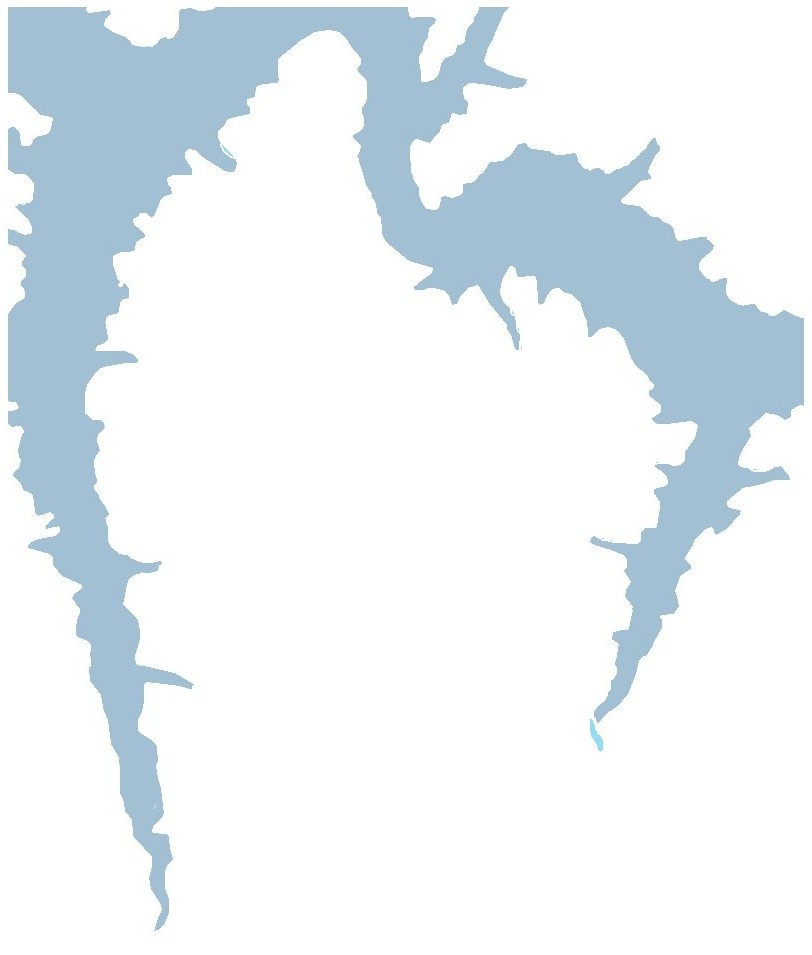
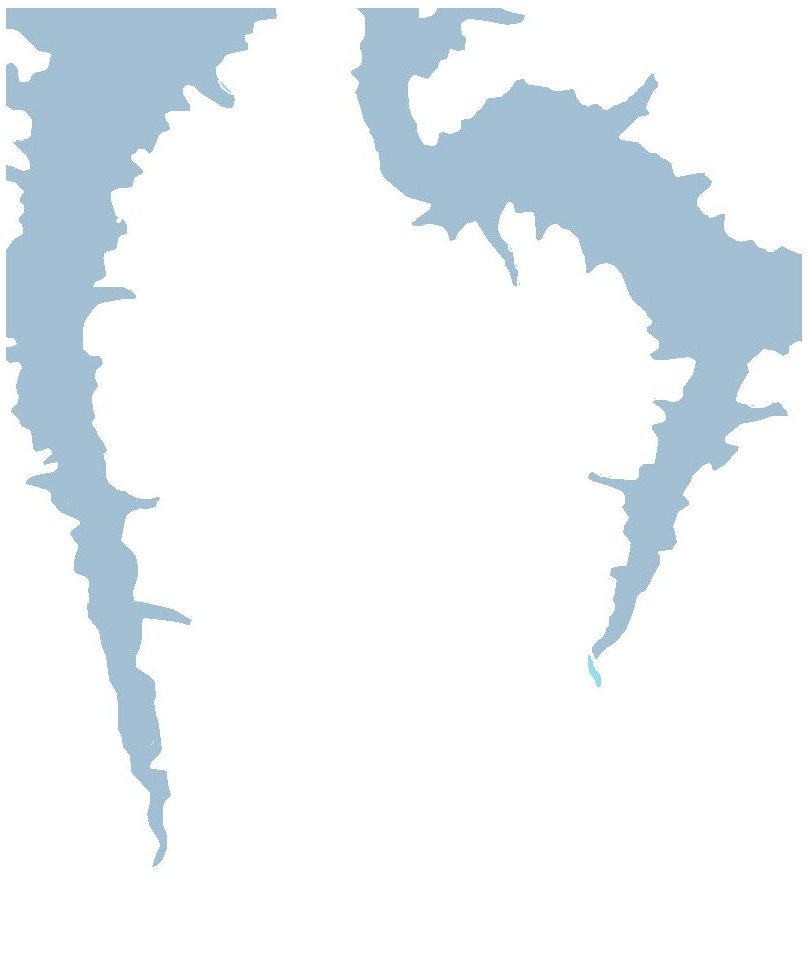
More or less useful plots for tracks.

diff --git a/serv/visualize/plot_track.py b/serv/visualize/plot_track.py
@@ -19,6 +19,7 @@ import qraat
 import matplotlib.pyplot as pp
 import matplotlib.image as mpimg
 import numpy as np
+import time
 from optparse import OptionParser
 
 parser = OptionParser()
@@ -45,7 +46,7 @@ db_con = qraat.util.get_db('reader')
 
 # A possible way to calculate good tracks. Compute the tracks
 # with some a priori maximum speed that's on the high side. 
-track = qraat.track(db_con, options.t_start, options.t_end, options.tx_id, 10) 
+track = qraat.track(db_con, options.t_start, options.t_end, options.tx_id, 10, -10) 
 
 # We then calculate statistics on the transition speeds in the 
 # critical path. Plotting the tracks might reveal spurious points
@@ -55,36 +56,64 @@ print "(mu=%.4f, sigma=%.4f)" % (mean, std)
 
 # Recompute the tracks, using the mean + one standard deviation as
 # the maximum speed. 
-track.recompute(mean + std)
-
-# Plot sites.
-sites = qraat.csv(db_con=db_con, db_table='sitelist')
-
-# Plot locations. 
-#pp.plot( 
-# map(lambda (P, t): P.imag, track.track), 
-# map(lambda (P, t): P.real, track.track), '.', alpha=0.3)
-
-#pp.show()
+track.recompute(mean + (2 * std), -10)
 
 bg = mpimg.imread('qr-overlay.png')
 
-e0 = 572599.5
-e1 = 577331.4
+e0 = 572599.5 - 150
+e1 = 577331.4 - 150
 
-n0 = 4259439.5 + 110 + 60 - 20
-n1 = 4259483.7 + 210 + 85 -  20
+n0 = 4259439.5 + 110 + 60 - 20 - 500 
+n1 = 4259483.7 + 210 + 85 -  20 - 500 
 
-print bg.shape[0] # n
-print bg.shape[1] # e
-
+E = lambda(x) : float(bg.shape[1]) * (x - e0) /  (e1 - e0)
 N = lambda(y) : bg.shape[0] - (y - n0) / float(bg.shape[0]) * (n1 - n0)
 
-pp.plot(
- [100 for s in sites], 
- [N(float(s.northing)) for s in sites], 'ro')
-pp.imshow(bg)
+sites = qraat.csv(db_con=db_con, db_table='sitelist')
 
-pp.show()
+fig = pp.figure()
+ax = fig.add_subplot(1,1,1)
+
+#pp.text(E(track[0][0].imag) + 10, N(track[0][0].real) + 10, "Start", color='gray', size='smaller')
+#pp.text(E(track[-1][0].imag) + 10, N(track[-1][0].real) + 10, "End", color='gray', size='smaller')
+
+# Plot tracks. 
+pp.scatter( 
+ map(lambda (P, t): E(P.imag), track.track), 
+ map(lambda (P, t): N(P.real), track.track), alpha=0.2, s=2, c='k', 
+   label='Tracks')
+
+# Plot sites. 
+pp.plot(
+ [E(float(s.easting)) for s in sites], 
+ [N(float(s.northing)) for s in sites], 'ro', 
+    label='QRAAT receiver sites')
+
+t = time.localtime(track[0][1])
+s = time.localtime(track[-1][1])
+pp.title('%04d-%02d-%02d  %02d:%02d - %02d:%02d  txID=%d' % (
+     t.tm_year, t.tm_mon, t.tm_mday,
+     t.tm_hour, t.tm_min,
+     s.tm_hour, s.tm_min,
+     options.tx_id), size='smaller')
+
+pp.grid(b=True, which='both', color='gray', linestyle='-')
+
+pp.imshow(bg)
+pp.legend( prop={'size':'smaller'} )
+
+ax.set_xticks([ int(E(x)) for x in range(int(e0), int(e1), 500)])
+ax.set_xticklabels([])
+ax.set_xlabel("Easting (0.5 km step)", size='smaller')
+
+ax.set_yticks([ int(N(y)) for y in range(int(n0), int(n1+5000), 500)])
+ax.set_yticklabels([])
+ax.set_ylabel("Northing (0.5 km step)", size='smaller')
+
+pp.savefig('tx%d_%04d.%02d.%02d_%02d.%02d.%02d.png' % (options.tx_id, 
+   t.tm_year, t.tm_mon, t.tm_mday,
+   t.tm_hour, t.tm_min, t.tm_sec))
+
+
 
 

diff --git a/serv/visualize/test.py b/serv/visualize/test.py
@@ -5,7 +5,8 @@ import sys, os, re, time
 
 progs={ "pos" : "rmg_position", 
         "ll" : "plot_ll.py", 
-        "search_space" : "plot_search_space.py" }
+        "search_space" : "plot_search_space.py", 
+        "track" : "plot_track.py" }
 
 exps = {         # t_start,           t_end,             tx_id, t_win, t_step
        "feb2"  : ( 1391390700.638165, 1391396399.840252, 54,    30,    5),  
@@ -32,18 +33,29 @@ if len(sys.argv) >= 3:
   elif sys.argv[1] in progs.keys(): 
     
     if sys.argv[2] in exps.keys(): 
-      
-      fn = progs[sys.argv[1]]
-      (t_start, t_end, tx_id, t_win, t_step) = exps[sys.argv[2]]
-      res = os.system(("/usr/bin/python {0} " 
-        "--t-start={1} --t-end={2} " 
-        "--t-win={3} --t-delta={4} --tx-id={5}").format(fn, 
-                                                  t_start, t_end,
-                                                  t_win, t_step, 
-                                                  tx_id))
 
-      if sys.argv[1] == 'pos': # Output the positions added to DB. 
-        pass#os.system("mysql -u reader -B -e \"SELECT * FROM qraat.Position\"")
+      if sys.argv[2] == 'track':
+        
+        fn = progs[sys.argv[1]]
+        (t_start, t_end, tx_id, t_win, t_step) = exps[sys.argv[2]]
+        res = os.system(("/usr/bin/python {0} " 
+          "--t-start={1} --t-end={2} " 
+          "--t-win={3} --t-delta={4} --tx-id={5}").format(fn, 
+                                                    t_start, t_end,
+                                                    t_win, t_step, 
+                                                    tx_id))
+      
+      else:
+
+        fn = progs[sys.argv[1]]
+        (t_start, t_end, tx_id, t_win, t_step) = exps[sys.argv[2]]
+        res = os.system(("/usr/bin/python {0} " 
+          "--t-start={1} --t-end={2} --tx-id={3}").format(fn, 
+                                                    t_start, t_end,
+                                                    tx_id))
+
+        if sys.argv[1] == 'pos': # Output the positions added to DB. 
+          pass#os.system("mysql -u reader -B -e \"SELECT * FROM qraat.Position\"")
         
  
   
